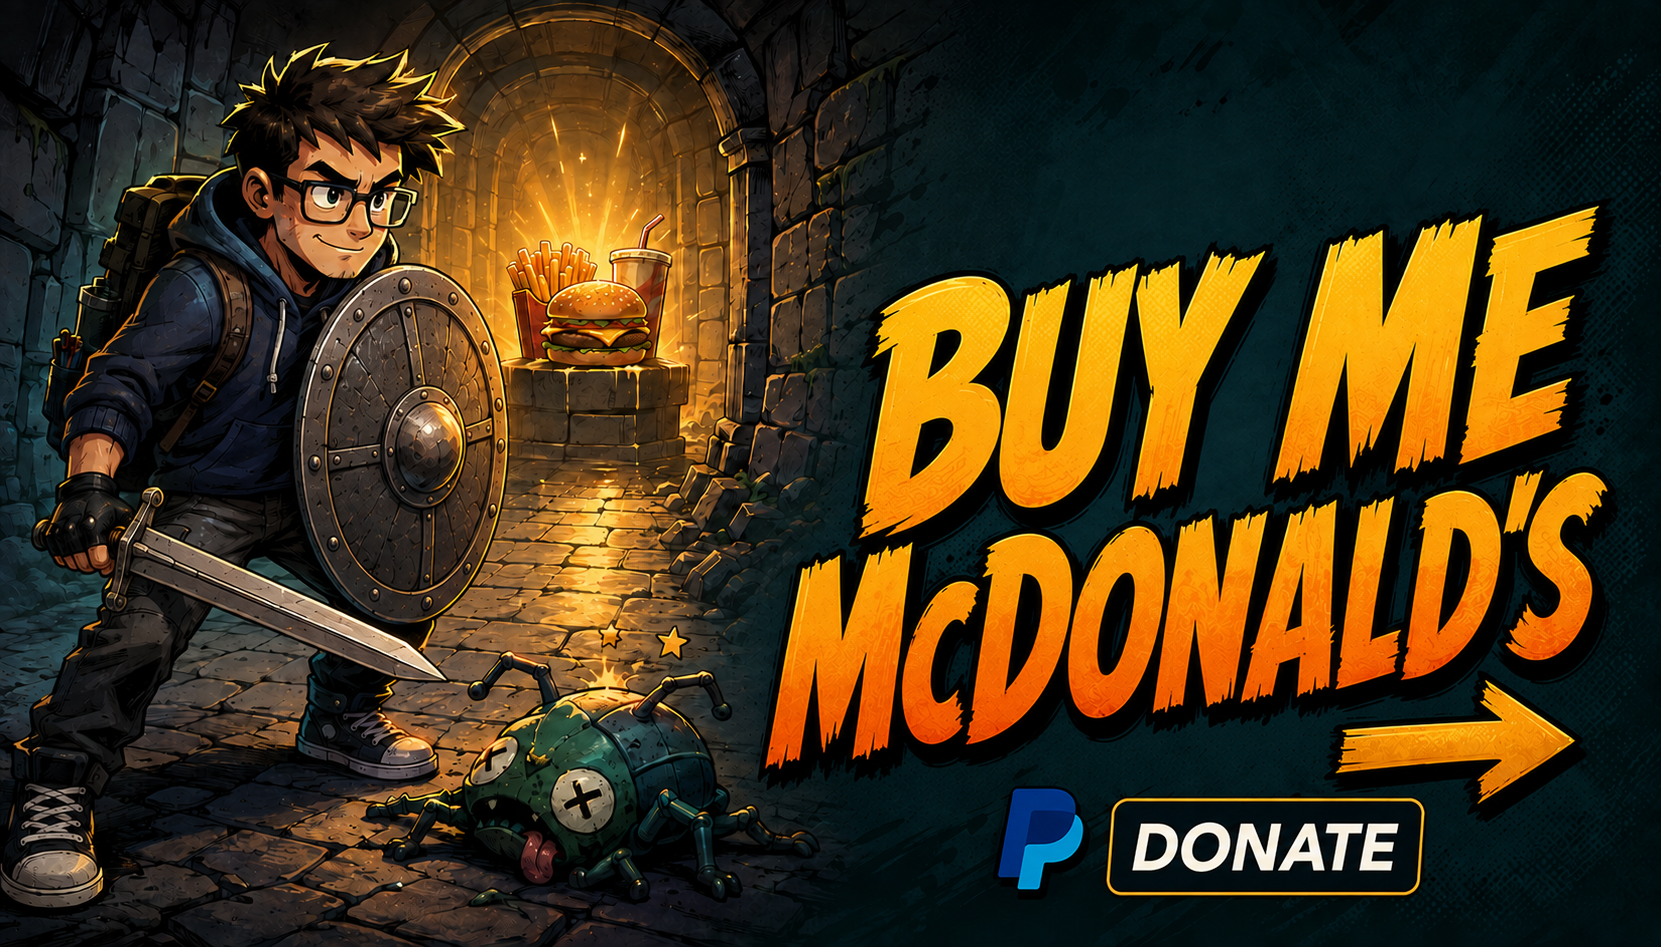
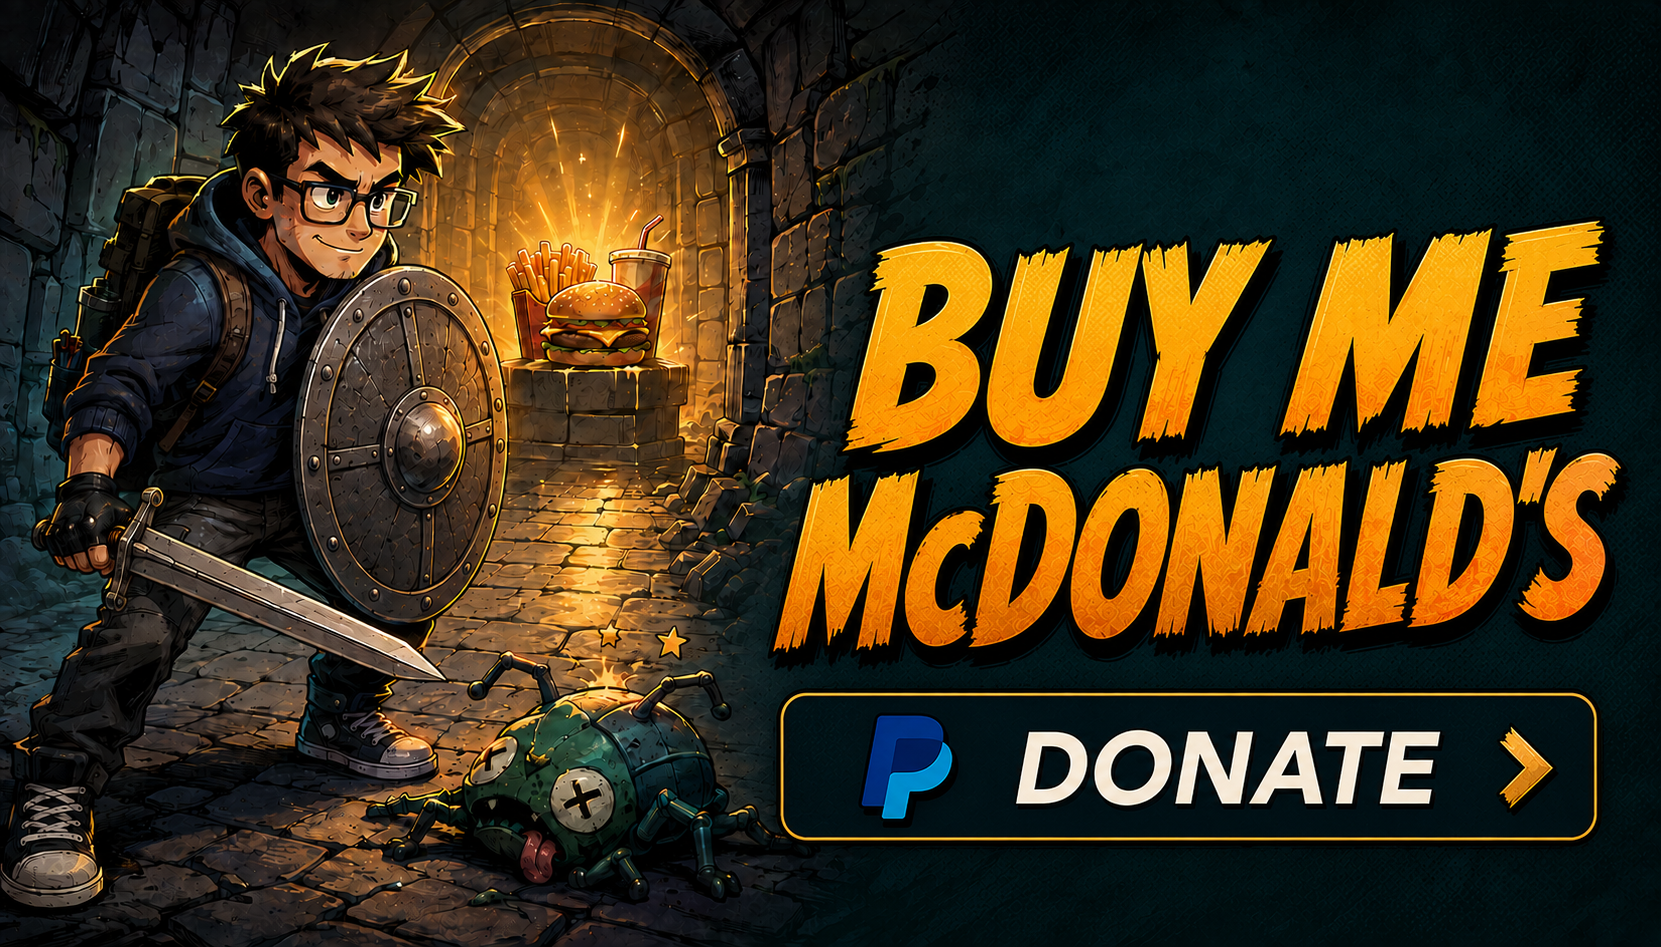
feat: refine repository support card hierarchy

diff --git a/README.md b/README.md
@@ -1,7 +1,7 @@
 # Buy Me McDonald’s
 
 <a href="https://dancockrell.github.io/buy-me-mcdonalds/?product=pirate-island">
-  <img src="public/assets/buy-me-mcdonalds-readme-card.png" alt="Fight bugs. Find burgers. Buy me McDonald's." width="640">
+  <img src="public/assets/buy-me-mcdonalds-readme-card.png" alt="Buy me McDonald's. Donate with PayPal." width="640">
 </a>
 
 A shared support page and PayPal backend for independent software. Every product supplies its own work totals while confirmed meal funding remains shared. The interface offers a five-item food-price scale and never treats a checkout handoff as proof of payment.
@@ -14,7 +14,7 @@ Place this near the top of a product's `README.md`. Change only the `product` va
 
 ```html
 <a href="https://dancockrell.github.io/buy-me-mcdonalds/?product=pirate-island">
-  <img src="https://dancockrell.github.io/buy-me-mcdonalds/assets/buy-me-mcdonalds-readme-card.png" alt="Fight bugs. Find burgers. Buy me McDonald's." width="640">
+  <img src="https://dancockrell.github.io/buy-me-mcdonalds/assets/buy-me-mcdonalds-readme-card.png" alt="Buy me McDonald's. Donate with PayPal." width="640">
 </a>
 ```
 
